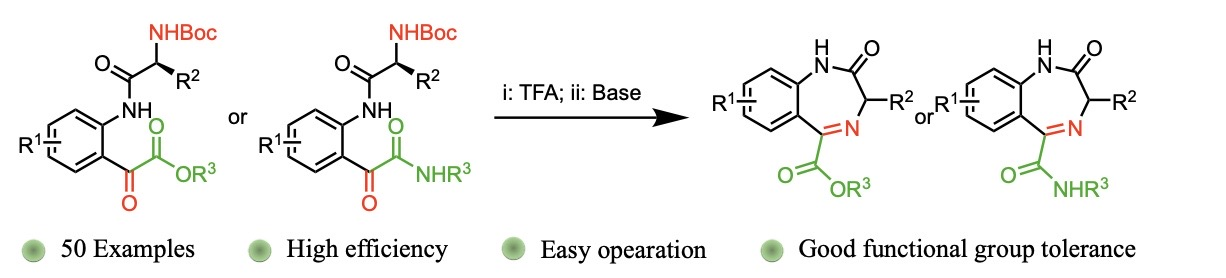
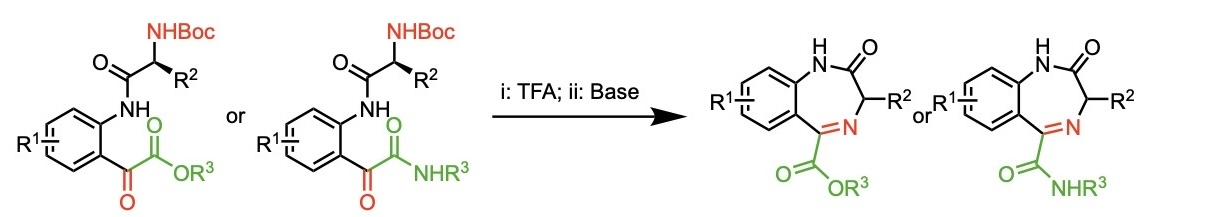
update

diff --git a/collaborators.md b/collaborators.md
@@ -151,7 +151,20 @@ title: Collaborators
                 </div>
             </div>
 
-            <!-- 11. Dr Rajesh Kuppusamy -->
+            <!-- 11. Adjunct Prof. Peter Karuso -->
+            <div class="collaborator-card">
+                <div class="collaborator-image">
+                    <img src="{{ site.baseurl }}/assets/images/collaborators/PeterKaruso.jpg" alt="Peter Karuso">
+                </div>
+                <div class="collaborator-content">
+                    <h3>Adjunct Prof. Peter Karuso</h3>
+                    <p class="affiliation">School of Biotechnology & Biomolecular Sciences, UNSW</p>
+                    <p class="bio">Isolation of bioactive molecules and drugs from natural products.</p>
+                    <a href="https://www.unsw.edu.au/staff/peter-karuso" target="_blank" rel="noopener" class="profile-link"><i class="fas fa-external-link-alt"></i> View Profile</a>
+                </div>
+            </div>
+
+            <!-- 12. Dr Rajesh Kuppusamy -->
             <div class="collaborator-card">
                 <div class="collaborator-image">
                     <img src="{{ site.baseurl }}/assets/images/collaborators/rajesh-kuppusamy.png" alt="Rajesh Kuppusamy">
@@ -164,7 +177,7 @@ title: Collaborators
                 </div>
             </div>
 
-            <!-- 12. Dr Daniel Wenholz -->
+            <!-- 13. Dr Daniel Wenholz -->
             <div class="collaborator-card">
                 <div class="collaborator-image">
                     <img src="{{ site.baseurl }}/assets/images/collaborators/DanielWenholz.jpg" alt="Daniel Wenholz">
@@ -178,7 +191,7 @@ title: Collaborators
                 </div>
             </div>
 
-            <!-- 13. Dr Frances Byrne -->
+            <!-- 14. Dr Frances Byrne -->
             <div class="collaborator-card">
                 <div class="collaborator-image">
                     <img src="{{ site.baseurl }}/assets/images/collaborators/frances-byrne.jpg" alt="Frances Byrne">
@@ -191,7 +204,7 @@ title: Collaborators
                 </div>
             </div>
 
-            <!-- 14. Dr Renxun Chen -->
+            <!-- 15. Dr Renxun Chen -->
             <div class="collaborator-card">
                 <div class="collaborator-image">
                     <img src="{{ site.baseurl }}/assets/images/collaborators/Renxun-Chen-2.jpg" alt="Renxun Chen">
